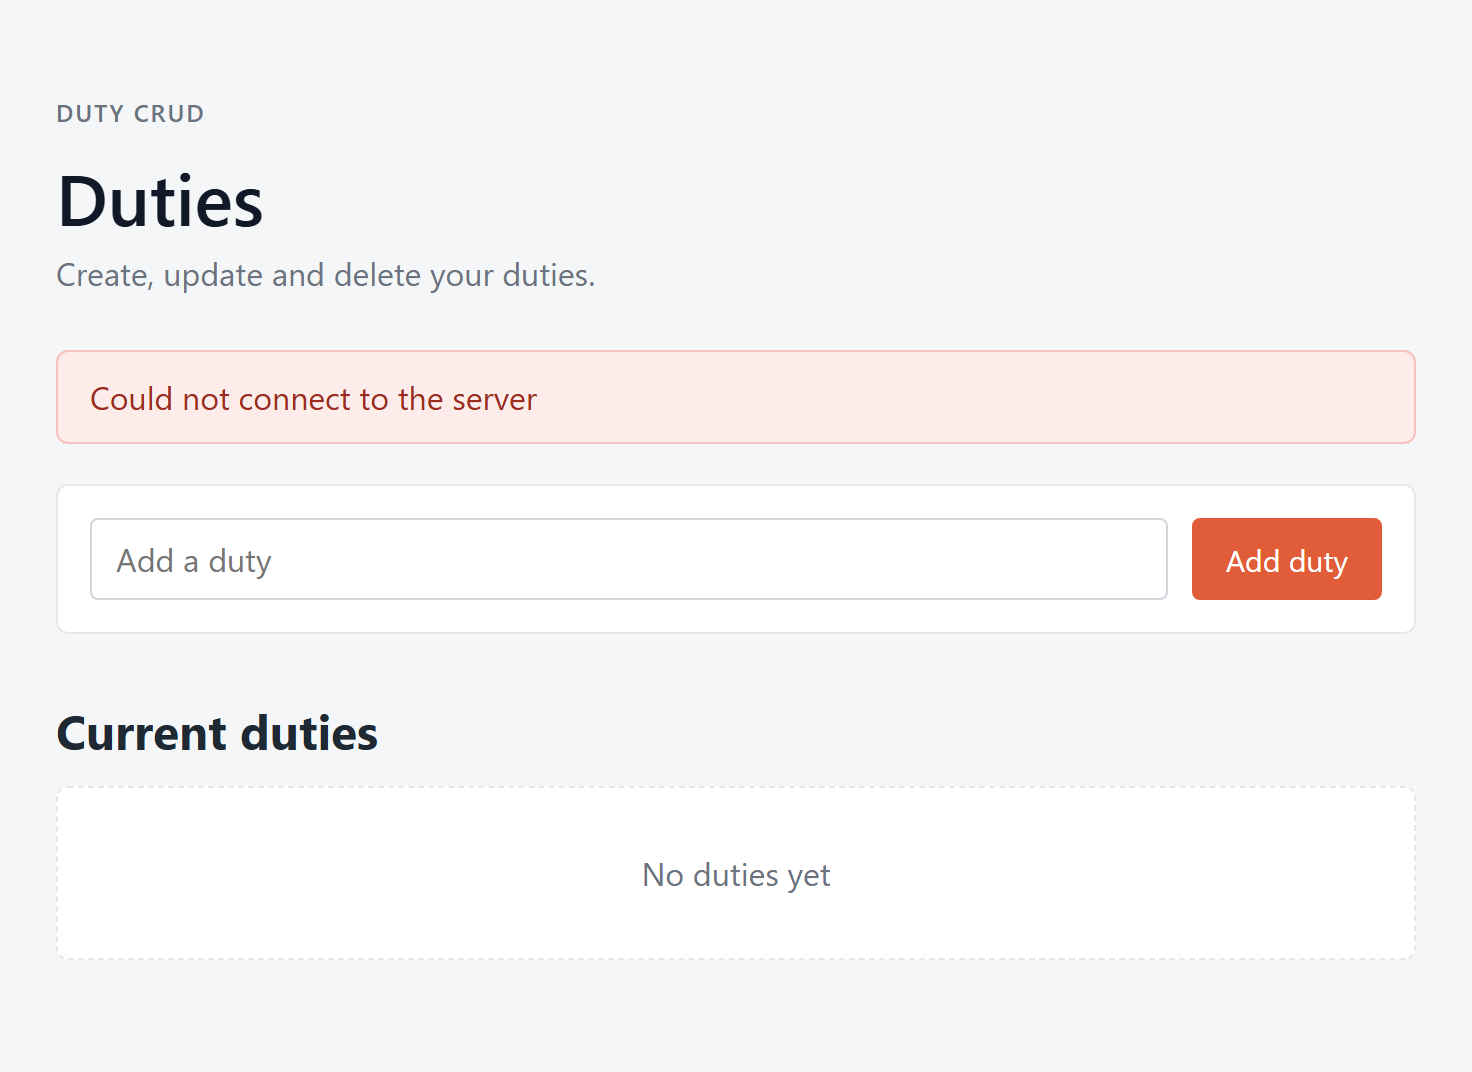
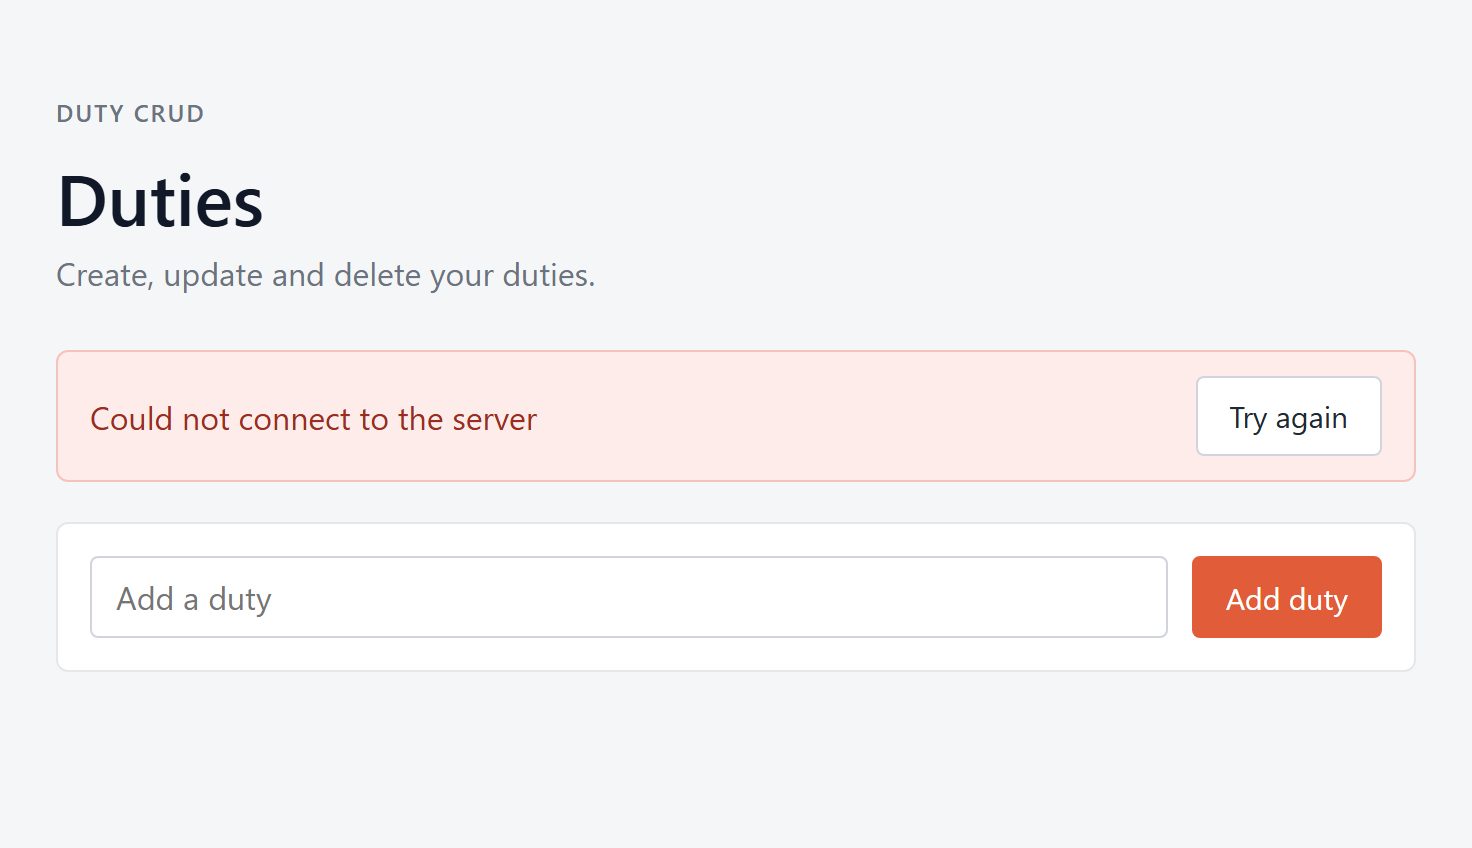
docs: update readme and screenshots for retry and delete dialog

diff --git a/README.md b/README.md
@@ -191,7 +191,7 @@ The backend validates these variables with zod when it starts. If one is missing
 | Problem | Cause and fix |
 |---|---|
 | `Invalid environment variables: DATABASE_URL ...` | `backend/.env` does not exist or has no `DATABASE_URL`. Repeat step 3. |
-| The page shows **"Could not connect to the server"** | The backend is not running, or `VITE_API_URL` points to the wrong place. |
+| The page shows **"Could not connect to the server"** | The backend is not running, or `VITE_API_URL` points to the wrong place. Start it and click **Try again**. |
 | Every request returns `500 Something went wrong` | Check the backend logs: `ECONNREFUSED` means PostgreSQL is not running; `relation "duties.duties" does not exist` means `schema.sql` was not run (step 2). |
 | `EADDRINUSE` / port already in use | Another process uses 3000, 5173 or 8080. Stop it or change `PORT` (and `FRONTEND_URL` / `VITE_API_URL` accordingly). |
 | CORS error in the browser console | `FRONTEND_URL` in the backend must match the URL you open: `http://localhost:5173` locally, `http://localhost:8080` with Docker. |
@@ -208,17 +208,15 @@ Taken from the running application.
 | ![Duties list](docs/screenshots/duties-list.png) | ![Edit mode](docs/screenshots/edit-mode.png) |
 | Duties are sorted by name. Each row can be edited or deleted. | Edit mode replaces the row with an input. Enter or **Save** confirms, **Cancel** discards. |
 
-| Empty state | Client-side validation |
+| Delete confirmation | Client-side validation |
 |---|---|
-| ![Empty state](docs/screenshots/empty-state.png) | ![Validation error](docs/screenshots/validation-error.png) |
-| Shown when there are no duties yet. | Empty or blank names are blocked before calling the API. |
+| ![Delete dialog](docs/screenshots/delete-dialog.png) | ![Validation error](docs/screenshots/validation-error.png) |
+| Deleting asks for confirmation in a dialog. It closes with **Cancel**, Escape or a click outside. | Empty or blank names are blocked before calling the API. |
 
-| Backend not reachable | Mobile |
-|---|---|
-| ![Error state](docs/screenshots/error-state.png) | ![Mobile](docs/screenshots/mobile.png) |
-| Network and API errors are always shown to the user. | Under 560 px the form and the row buttons stack. |
-
-Deleting asks for confirmation with the browser's native dialog, so it does not appear in the screenshots.
+| Empty state | Backend not reachable | Mobile |
+|---|---|---|
+| ![Empty state](docs/screenshots/empty-state.png) | ![Error state](docs/screenshots/error-state.png) | ![Mobile](docs/screenshots/mobile.png) |
+| Shown when there are no duties yet. | If the list cannot be loaded, the error is shown with a **Try again** button instead of an empty list. | Under 560 px the form and the row buttons stack. |
 
 ---
 
@@ -239,7 +237,7 @@ Frontend   components → useDuties (hook) → duty.service → api-client (fetc
 | `duties.controller.ts` | Reads the request, validates it with zod and chooses the status code |
 | `duties.service.ts` | Business rules (e.g. a missing duty is a 404) and business logs |
 | `duties.repository.ts` | The only place with SQL |
-| `hooks/useDuties.ts` | Keeps the list in state and updates it after create, edit and delete |
+| `hooks/useDuties.ts` | Loads the list (and reloads it on **Try again**), keeps it in state and updates it after create, edit and delete |
 | `services/api-client.ts` | The only place that calls `fetch`; checks `response.ok` and turns errors into readable messages |
 
 ```
@@ -268,6 +266,7 @@ Frontend   components → useDuties (hook) → duty.service → api-client (fetc
         ├── services/               # api-client and duty.service
         ├── hooks/useDuties.ts
         ├── components/duties/      # CreateDutyForm, DutiesList, DutyItem
+        ├── components/common/      # ConfirmDialog (reusable confirmation dialog)
         ├── utils/validateDutyName.ts
         ├── styles/global.css
         └── __tests__/
@@ -326,7 +325,9 @@ The frontend check gives instant feedback, the backend check protects the API fr
 
 - Expected errors are thrown as `AppError(status, message)` from any layer and returned as they are: `400` for invalid data, `404` when the duty does not exist.
 - Unexpected errors (database down, a bug) are logged with the full stack and returned as a generic `500 Something went wrong`, so internal details never reach the client.
-- In the UI, buttons are disabled while a request is running (no double submissions), deleting asks for confirmation, and every error is shown next to the action that caused it.
+- In the UI, buttons are disabled while a request is running (no double submissions) and every error is shown next to the action that caused it.
+- If the list cannot be loaded, the page shows the error with a **Try again** button and hides the list, so it never says "No duties yet" when it simply could not reach the server.
+- Deleting opens an accessible confirmation dialog (`role="alertdialog"`, focus on **Cancel**, closes with Escape or a click outside) that shows "Deleting..." while the request runs. If the delete fails, the dialog closes and the error appears under the duty.
 
 **Logs** are one JSON object per line, ready for tools like Grafana Loki or Datadog. Every request is logged with its status and duration, and create, update and delete add a business log with the duty id:
 
@@ -342,7 +343,7 @@ The frontend check gives instant feedback, the backend check protects the API fr
 ```bash
 npm test                         # all tests
 npm test --workspace backend     # 32 tests
-npm test --workspace frontend    # 31 tests
+npm test --workspace frontend    # 37 tests
 ```
 
 **Backend**
@@ -352,8 +353,8 @@ npm test --workspace frontend    # 31 tests
 
 **Frontend**
 
-- Page tests (`App.test.tsx`): a loading error is shown, and creating, editing and deleting update the list without reloading the page.
-- Component tests: form validation, trimmed names, a single request while saving, API errors shown to the user, cancel editing, delete confirmed and cancelled.
+- Page tests (`App.test.tsx`): a loading error is shown without the empty message, **Try again** loads the list again, and creating, editing and deleting update the list without reloading the page.
+- Component tests: form validation, trimmed names, a single request while saving, API errors shown to the user, cancel editing, and the delete dialog (confirm, cancel, Escape, click outside, disabled while deleting, error when deleting fails).
 - Service tests: URLs and methods, empty `204` responses, backend error messages and network failures.
 
 ---
@@ -368,7 +369,6 @@ Things deliberately left out of the assessment, and a few known limits:
 - **Pagination** for `GET /duties` and detection of concurrent edits (`409 Conflict`) with an `updated_at` column.
 - **Better mapping of known errors**: a body over 100 KB (`413`) or a `CHECK` violation currently end up as a generic `500`.
 - **Production hardening**: graceful shutdown (`SIGTERM` + `pool.end()`), a request id in every log, `helmet`, rate limiting and authentication.
-- **UI details**: hide "No duties yet" when the list fails to load, a retry button, and a custom delete dialog instead of `window.confirm`.
 - **End-to-end tests** with Playwright for the main flows.
 
 ---
